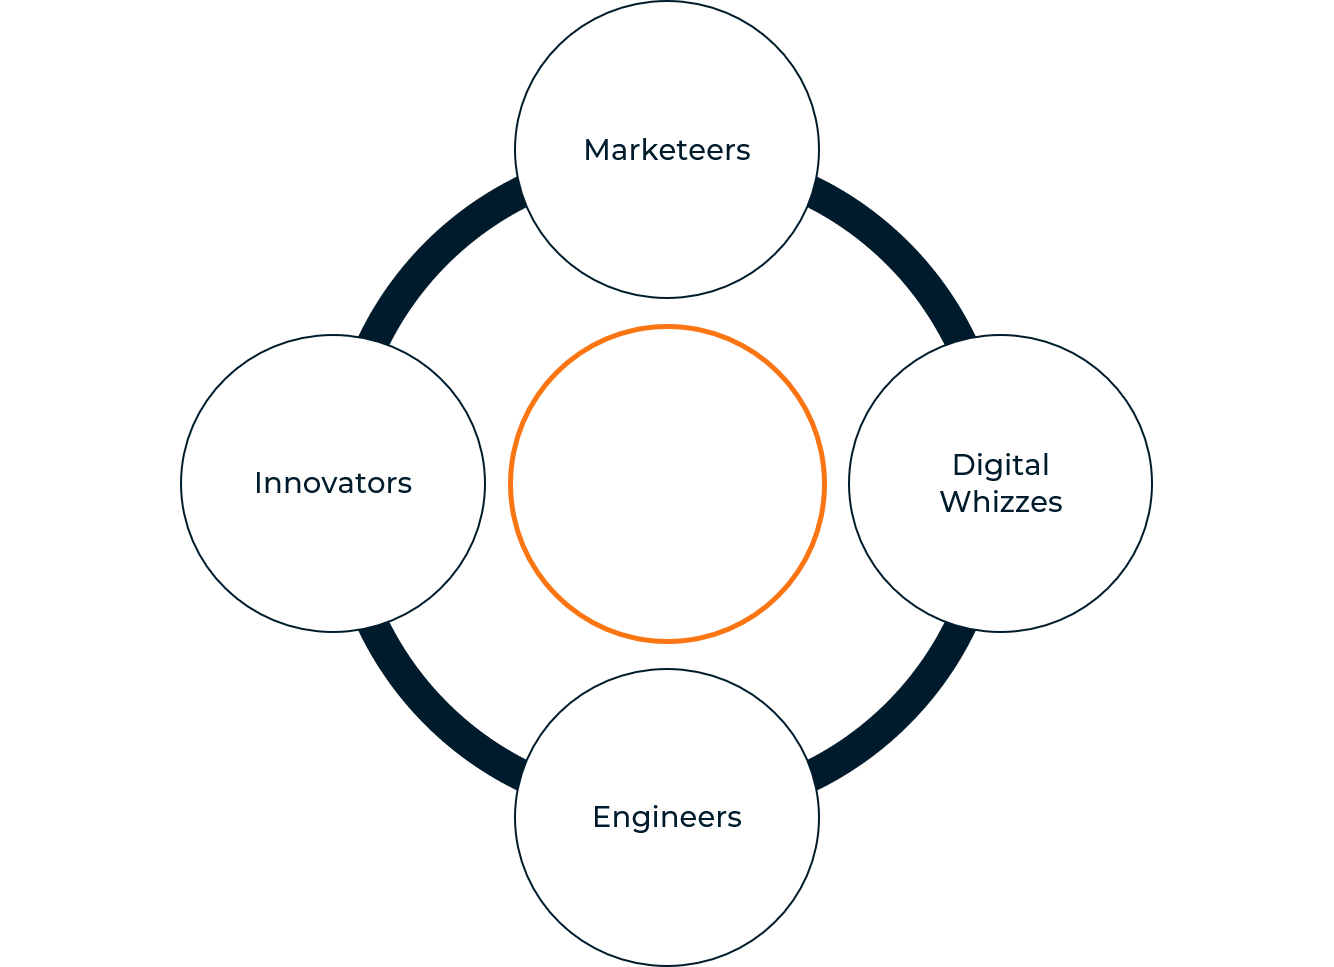
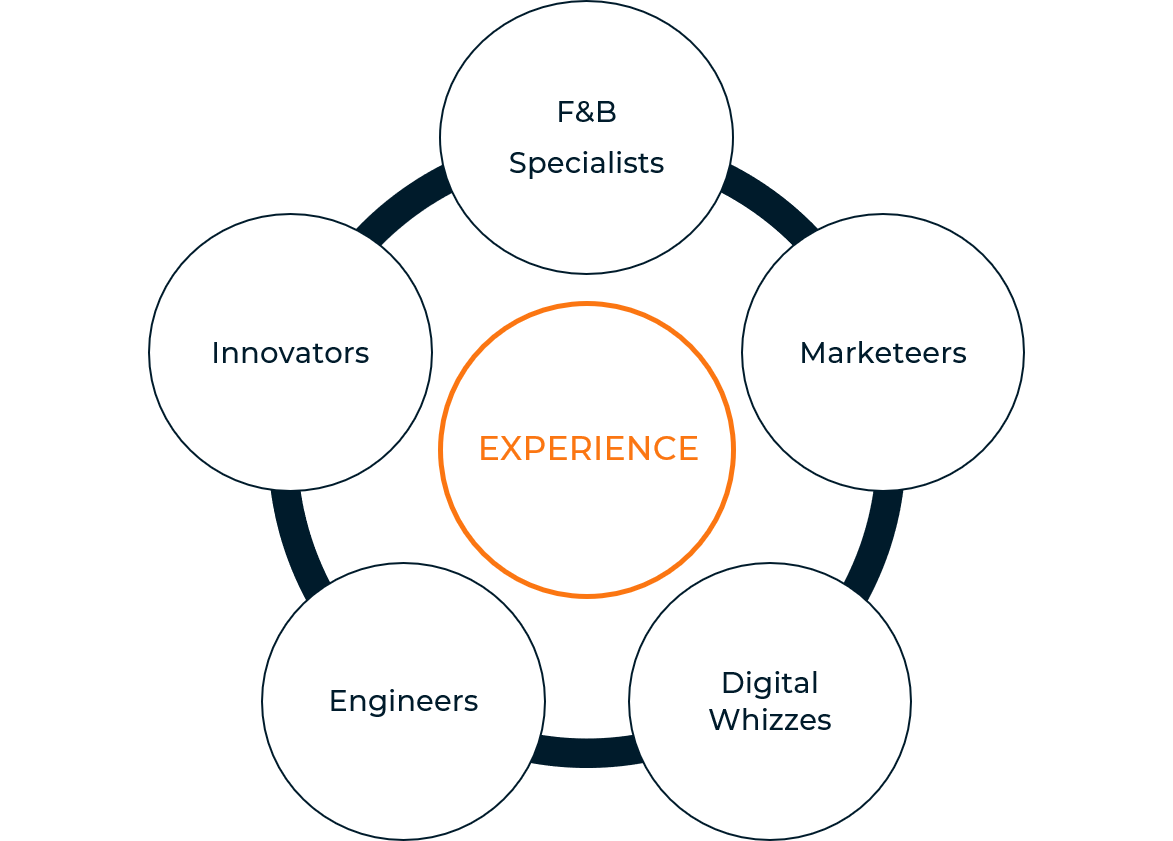
updated about

diff --git a/about.html b/about.html
@@ -1,5 +1,6 @@
 <!DOCTYPE html>
 <html lang="en">
+
 <head>
   <title>ABOUT</title>
   <meta charset="utf-8">
@@ -14,189 +15,122 @@
 </head>
 
 <body>
- 
-    <nav class="navbar navbar-default navbar-fixed-top">
-        <div class="container">
-          <div class="navbar-header">
-            <button type="button" class="navbar-toggle" data-toggle="collapse" data-target="#myNavbar">
-              <span class="icon-bar"></span>
-              <span class="icon-bar"></span>
-              <span class="icon-bar"></span>                        
-            </button>
-            <a class="navbar-brand logo-font-size" href="index.html">
-              <img src="brandlogo.png" class="brandlogo" style="margin-top: -10px;" alt="">
-            </a>
-            <!-- innovate | activate | differentiate -->
-    
-          </div>
-          <div class="collapse navbar-collapse" id="myNavbar">
-            <ul class="nav navbar-nav ul-nav navbar-right">
-              <li><a href="experiences.html">EXPERIENCES</a></li>
-              <li><a href="about.html">ABOUT</a></li>
-              <li><a href="contact.html">CONTACT</a></li>
-            </ul>
-            
-          </div>
-        </div>
-      </nav>
 
-      <div class="push"></div>
+  <nav class="navbar navbar-default navbar-fixed-top">
+    <div class="container">
+      <div class="navbar-header">
+        <button type="button" class="navbar-toggle" data-toggle="collapse" data-target="#myNavbar">
+          <span class="icon-bar"></span>
+          <span class="icon-bar"></span>
+          <span class="icon-bar"></span>
+        </button>
+        <a class="navbar-brand logo-font-size" href="index.html">
+          <img src="brandlogo.png" class="brandlogo" style="margin-top: -10px;" alt="">
+        </a>
+        <!-- innovate | activate | differentiate -->
 
-      <div class="container">
-          <hr>
-        </div>
-
-      <div class="container">
-        <h1 class="text-center" style="font-weight: bolder">THE EXPERIENCES<span class="celsius">º</span></h1>
       </div>
-      
-      
-  <div class="container">
-    <hr >
-  </div>
-
-      <div class="container">
-        <div class="row">
-        <div class="col-md-6">
-          <p class="center-block" style="max-width: 600px; padding: 10px;">
-          With heightened consumer expectations and people flat out ignoring traditional advertising, making a difference has become more and more difficult <br><br>
-
-Making this difference is where we are best at <br><br>
-
-We deliver experiences that strengthen your story in an unique way <br><br>
-
-We do this by engaging consumers through innovative
-technologies and multi-sensory tools <br><br>
-
-Our experiences are among others creating engagement at brand
-activations, events and consumer promotions
-          </p>
-        </div>
-        <div class="col-md-6">
-            <img class="verticalcenter" src="woordenboek.png" style="width: 400px">
-          </div>
+      <div class="collapse navbar-collapse" id="myNavbar">
+        <ul class="nav navbar-nav ul-nav navbar-right">
+          <li><a href="experiences.html">EXPERIENCES</a></li>
+          <li><a href="about.html">ABOUT</a></li>
+          <li><a href="contact.html">CONTACT</a></li>
+        </ul>
 
       </div>
     </div>
-      
-      <div class="container-fluid" style="background-color: white;">
-        <div class="container">
-          <div class="row">
-            <div class="col-sm-12">
-              <h1 class="text-center" style="font-weight: bolder; color: #001B2B;">THE COLLECTIVE<span class="celsius">º</span></h1>
-            </div>
-          </div>
-      </div>
+  </nav>
 
-      
-  <div class="container">
-    <hr>
-  </div>
-      
-      <div class="container">
-        <div class="row">
-      <div class="col-sm-6">
-      <p class="center-block" style="max-width: 600px; padding: 10px; color: #001B2B;">
-      It's the balanced combination of innovators, marketeers, engineers and digital whizzes that makes us unique <br><br>
-      
-      We all have worked with A-brands, meaning we have a strong passon for storytelling and a drive for perfection<br><br>
-      
-      And perhaps the best thing: everyone of us is loving his speciality, whether it's the creative process of a new experience, developing an engaging AR application or when testing the latest multi-sensory gadgets<br><br>
-      </p>
-      </div>
-      <div class="col-sm-6">
-          <img class="img-fluid horizontalcenter" src="organogram.png" style="max-height: 300px;">
-      </div>
-      </div>
-      </div>
-    
-    </div>
+  <div class="push"></div>
 
-    <div class="container-fluid" style="height: 15px; background-color: white;">
-      
-    </div>
-
-
-      <div class="container">
-        <h1 class="text-center" style="font-weight: bolder">THE WORK<span class="celsius">º</span></h1>
-      </div>
-
-      
   <div class="container">
     <hr>
   </div>
 
-      <div class="container">
-        <div class="col-sm-12">
-          <p class="center-block text-center">
-            Next to developing tailor-made experiences we aim to build long-term partnerships with our clients <br><br>
+  <div class="container">
+    <h1 class="text-center" style="font-weight: bolder">THE EXPERIENCES<span class="celsius">º</span></h1>
+  </div>
 
-It can often be a struggle to link new technologies to your brand story <br><br>
 
-What can we do with this new technology? How can we apply it? And should we apply it at all? <br><br>
+  <div class="container">
+    <hr>
+  </div>
 
-With being highly entrepreneurial we can design experiences rapidly and run ‘testing & learning’ fast, making sure we don’t lose 
-important momentum for you to stand-out <br><br>
+  <div class="container">
+    <div class="row">
+      <div class="col-md-6">
+        <p class="center-block" style="max-width: 600px; padding: 10px;">
+          With heightened consumer expectations, making a difference has become more and more difficult <br><br>
 
-In this process we don’t assume that we have the smartest ideas, that is why we always involve your team and the consumer
+          Making this difference is what we are best at <br><br>
 
-          </p>
-        </div>
+          We deliver live and digital experiences that strengthen you in an unique way <br><br>
+
+          We do this by engaging consumers through innovative
+          technologies and multi-sensory tools <br><br>
+
+          Our experiences are among others creating engagement at <span id="bolder">brand
+            activations, events and consumer promotions</span>
+        </p>
+      </div>
+      <div class="col-md-6">
+        <img class="verticalcenter" src="woordenboek.png" style="width: 400px">
       </div>
 
+    </div>
+  </div>
 
-<!-- <div class="container">
-        <div class="row"><div class="col-sm-6"><p>
-            This is the place where we are working on a continuous process of global trend-watching, creating new ideas and testing new products and techniques<br><br>        
-        
-        
-            With consumers expecting more than ever from you, our lab is here to create innovative experiences that are strengthening your story by being both engaging and credible to your consumer<br><br>
-        
-        
-        
-            From the implementation of the newest AR technology to a full multi-sensory experience at an event or activation, we deliver from concept to execution<br><br>
-        
-        
-        
-        We just stick to a few rules of common sense:<br><br>
-        -We add true value to the user or consumer<br>
-        -We are engaging and credible            <br>
-        -We test and adapt            <br>
-        -We set KPI’s together         <br>
-        -We try to scale it<br>
-        </p></div>
-      
-      
-      <div class="col-sm-6">
-        <div class="row">
-          <div class="col-xs-4">
-        <img class="img-fluid" src="lab1.jpg" style="width: 100%;">
-        </div>
-        <div class="col-xs-8">
-        <img class="img-fluid" src="lab2.jpg" style="width: 100%;">
-        </div>
-      </div>
+  <div class="container-fluid" style="background-color: white;">
+    <div class="container">
       <div class="row">
-        <div class="col-sm-12"  style="padding:10px;">
-          <img class="img-fluid" src="lab3.jpg" style="width: 100%;">
+        <div class="col-sm-12">
+          <h1 class="text-center" style="font-weight: bolder; color: #001B2B;">THE COLLECTIVE<span
+              class="celsius">º</span></h1>
         </div>
       </div>
+    </div>
+
+
+    <div class="container">
+      <hr>
+    </div>
+
+    <div class="container">
+      <div class="row">
+        <div class="col-sm-6">
+          <p class="center-block" style="max-width: 600px; padding: 10px; color: #001B2B;">
+            It's the balanced combination of innovators, F&B specialists, marketeers, engineers and digital whizzes that
+            makes us unique <br><br>
+
+            We all have worked with A-brands, meaning we have a strong passon for storytelling and a drive for
+            perfection<br><br>
+
+            And perhaps the best thing: everyone of us is loving his speciality, whether it's the creative process of a
+            new experience, developing an engaging AR application or when testing the latest multi-sensory
+            gadgets<br><br>
+          </p>
+        </div>
+        <div class="col-sm-6">
+          <img class="img-fluid horizontalcenter" src="organogram.png" style="max-height: 300px;">
+        </div>
       </div>
-      </d iv>
+    </div>
 
-            
-</div> -->
+  </div>
 
-<div class="container">
-        <hr>
-      </div>
+  <div class="container-fluid" style="height: 15px; background-color: white;">
 
-      <div class="footer">
-            <p class="text-center">©2019 by wowmakers™</p>
-          </div>
-  
+  </div>
 
-      </body>
-      </html>
+  <div class="container">
+    <hr>
+  </div>
 
-      
+  <div class="footer">
+    <p class="text-center">©2019 by wowmakers™</p>
+  </div>
+
+
+</body>
+
+</html>

diff --git a/index.html b/index.html
@@ -79,7 +79,7 @@
         <div class="container" style="max-width: 700px;">
         <div>
         <h1 class="text-center" style="font-weight: bolder">WHAT<span class="celsius">º</span></h1>
-        <p class="text-center">We help you stand-out with experiences that make consumers say ‘wow’!</p>
+        <p class="text-center">We help you stand-out with live and digital experiences that make consumers say ‘wow’!</p>
         </div>
         </div>
         
@@ -106,9 +106,9 @@
         <div>
         <h1 class="text-center" style="font-weight: bolder">WHO<span class="celsius">º</span></h1>
         <p class="text-center">A motivated collective of
-          innovators, marketeers, engineers
+          innovators, F&B specialists, marketeers, engineers
           and digital whizzes who can bring
-          the ‘wow’ to your brand</p>
+          the ‘wow’ to your brand or event</p>
         </div>
         </div>
     

diff --git a/custom.css b/custom.css
@@ -19,6 +19,11 @@
     src: url("MonteserratExtraBold/Montserrat-ExtraLight.otf") format("opentype");
 }
 
+#bolder {
+    font-weight: bold; 
+    font-family: 'MontserratEB', sans-serif; 
+}
+
 h1 {
     color: white;
     font-family: 'MontserratEB', sans-serif; 
